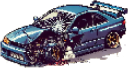
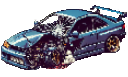
#107 refactor: make cars fit more into scenery

diff --git a/Game/Car2Decoration.cs b/Game/Car2Decoration.cs
@@ -6,24 +6,23 @@ namespace Game;
 
 public class Car2Decoration() : WorldFeature("brown-car-decoration"), ICollidable
 {
-    
-    
-    public override int ElementWidth { get; set; } = 120* (128/77);
-    public override int ElementHeight { get; set; } = 70;
+    private static readonly Texture2D Tex = EmbeddedTexture.LoadTexture("Game.brown-car.png")!.Value;
+    public override int ElementWidth { get; set; } = (int)(220.0 * (Tex.Width/Tex.Height));
+    public override int ElementHeight { get; set; } = (int)(220.0 * ((double)Tex.Height / Tex.Width));
     public override Vector2 Position { get; set; }
     public override int Layer { get; set; } = Layers.Decoration;
 
-    public Rectangle BoundingRect => new Rectangle(Position.X, Position.Y, ElementWidth, ElementHeight);
-    
-    
-    private Texture2D _tex = EmbeddedTexture.LoadTexture("Game.brown-car-2.png")!.Value;
-
+    public Rectangle BoundingRect
+    {
+        get => new(Position.X, Position.Y, ElementWidth, ElementHeight);
+        set {}
+    }
 
     public override void Draw()
     {
-        var source = new Rectangle(0, 0, _tex.Width, _tex.Height);
+        var source = new Rectangle(0, 0, Tex.Width, Tex.Height);
         var dest = new Rectangle(Position.X, Position.Y, ElementWidth, ElementHeight);
-        Raylib.DrawTexturePro(_tex, source, dest, Vector2.Zero, 0f, Color.White); 
+        Raylib.DrawTexturePro(Tex, source, dest, Vector2.Zero, 0f, Color.White); 
     }
     
 }

diff --git a/Game/CarDecorationWorldFeature.cs b/Game/CarDecorationWorldFeature.cs
@@ -6,12 +6,12 @@ namespace Game;
 
 public class CarDecorationWorldFeature() : WorldFeature("car-decoration"), ICollidable
 {
-    public override int ElementWidth { get; set; } = 100 * (512 / 234);
-    public override int ElementHeight { get; set; } = 100;
+    private static readonly Texture2D Tex = EmbeddedTexture.LoadTexture("Game.blue-car.png")!.Value;
+    public override int ElementWidth { get; set; } = (int)(250.0 * (Tex.Width/Tex.Height));
+    public override int ElementHeight { get; set; } = (int)(250.0 * ((double)Tex.Height / Tex.Width));
     public override Vector2 Position { get; set; }
     public override int Layer { get; set; } = Layers.Decoration;
     
-    private Texture2D _tex = EmbeddedTexture.LoadTexture("Game.blue-car.png")!.Value;
     public Rectangle BoundingRect
     {
         get => new(Position.X, Position.Y, ElementWidth, ElementHeight);
@@ -20,8 +20,8 @@ public class CarDecorationWorldFeature() : WorldFeature("car-decoration"), IColl
 
     public override void Draw()
     {
-        var source = new Rectangle(0, 0, _tex.Width, _tex.Height);
+        var source = new Rectangle(0, 0, Tex.Width, Tex.Height);
         var dest = new Rectangle(Position.X, Position.Y, ElementWidth, ElementHeight);
-        Raylib.DrawTexturePro(_tex, source, dest, Vector2.Zero, 0f, Color.White);
+        Raylib.DrawTexturePro(Tex, source, dest, Vector2.Zero, 0f, Color.White);
     }
 }
